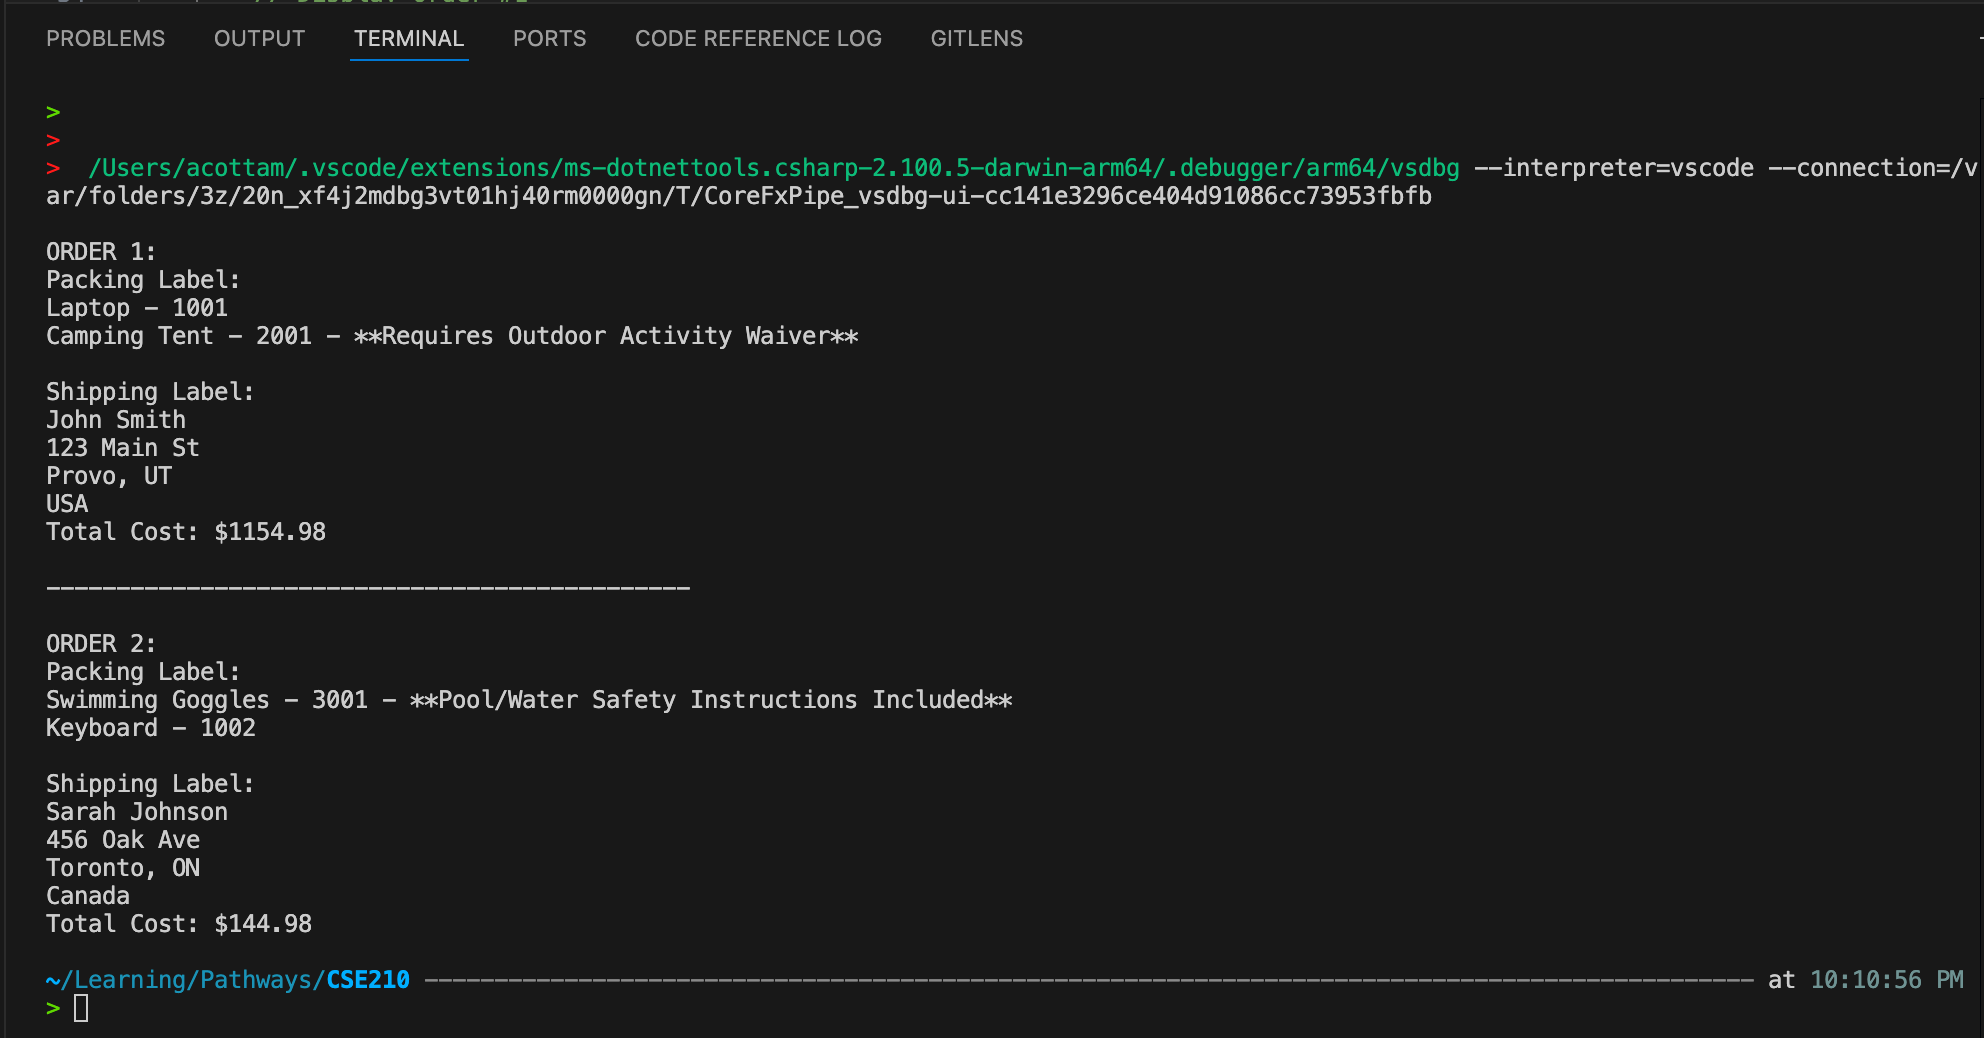
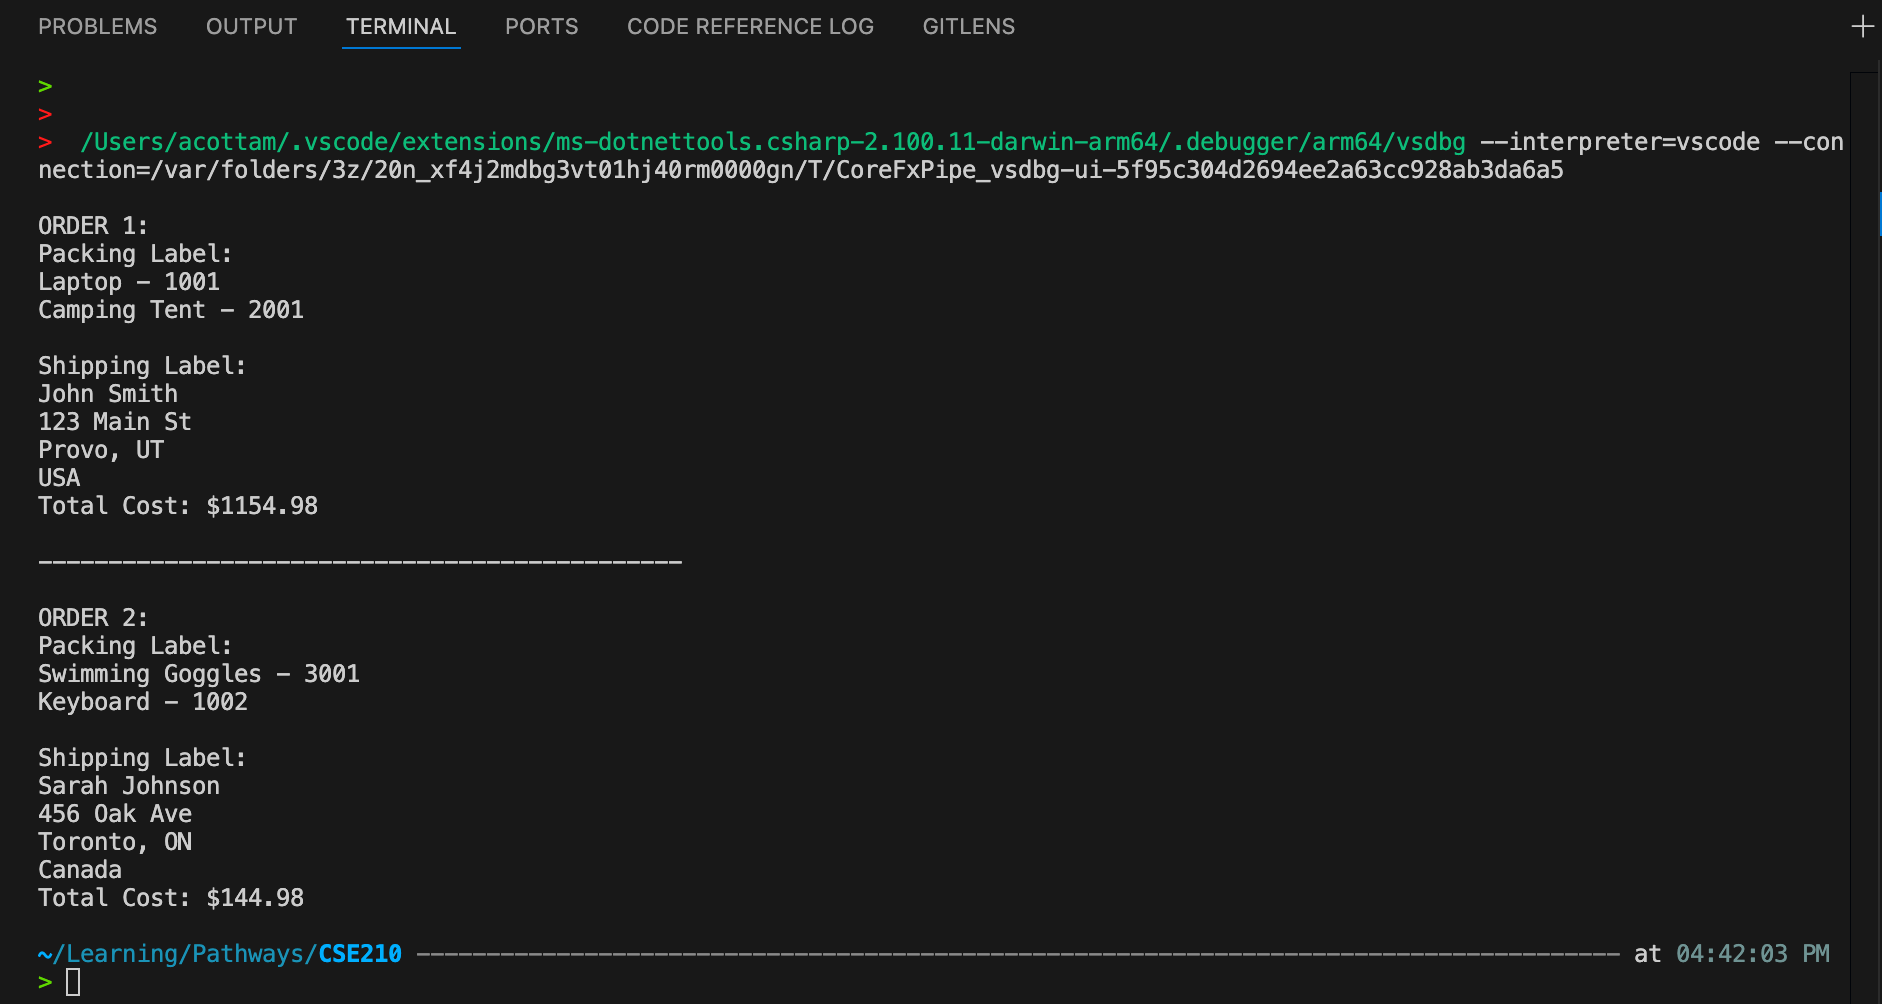
Programming Updates

diff --git a/week04/OnlineOrdering/Program.cs b/week04/OnlineOrdering/Program.cs
@@ -15,8 +15,8 @@ class Program
 
         // Create Products
         Product laptop = new Product("Laptop", 999.99, 1001);
-        OutdoorProduct tent = new OutdoorProduct("Camping Tent", 149.99, 2001);
-        SwimmingProduct goggles = new SwimmingProduct("Swimming Goggles", 29.99, 3001);
+        Product tent = new Product("Camping Tent", 149.99, 2001);
+        Product goggles = new Product("Swimming Goggles", 29.99, 3001);
 
         // Create Order #1 (USA)
         Order order1 = new Order(customer1);

diff --git a/week04/OnlineOrdering/DESIGN.md b/week04/OnlineOrdering/DESIGN.md
@@ -5,19 +5,17 @@
 ### Current Classes (Complete)
 The current implementation includes all necessary classes for the requirements:
 
-1. **Product** - Base class for all products
-2. **OutdoorProduct** - Specialized product with safety warnings
-3. **SwimmingProduct** - Specialized product with safety instructions
-4. **Address** - Customer and shipping address management
-5. **Customer** - Customer information container
-6. **Order** - Order management and cost calculation
+1. **Product** - Class for all products
+2. **Address** - Customer and shipping address management
+3. **Customer** - Customer information container
+4. **Order** - Order management and cost calculation
 
 ### Missing Classes Assessment
 **No additional classes are needed** - the current design adequately covers all requirements with proper separation of concerns.
 
 ## Class Diagrams
 
-### Product Class Hierarchy
+### Product Class
 ```
 ┌─────────────────────────┐
 │       Product           │
@@ -30,28 +28,8 @@ The current implementation includes all necessary classes for the requirements:
 │   productId)            │
 │ + GetPrice(): double    │
 │ + GetPackingLabel():    │
-│   string (virtual)      │
+│   string                │
 └─────────────────────────┘
-           ▲
-           │
-    ┌──────┴──────┐
-    │             │
-┌───▼────────┐ ┌──▼─────────────┐
-│OutdoorProd │ │ SwimmingProduct│
-├────────────┤ ├────────────────┤
-│(inherits   │ │ (inherits all  │
-│all from    │ │ from Product)  │
-│Product)    │ ├────────────────┤
-├────────────┤ │+ SwimmingProd  │
-│+ OutdoorPr │ │  (name, price, │
-│  (name,    │ │  productId)    │
-│  price,    │ │+ GetPackingLab │
-│  productId)│ │  el(): string  │
-│+ GetPacking│ │  (override)    │
-│  Label():  │ └────────────────┘
-│  string    │
-│  (override)│
-└────────────┘
 ```
 
 ### Address Class
@@ -112,8 +90,7 @@ Order ──────► Customer ──────► Address
   │
   │ (contains list)
   ▼
-Product ◄──── OutdoorProduct
-        ◄──── SwimmingProduct
+Product
 ```
 
 ## Program Flow Chart
@@ -140,7 +117,6 @@ Add Products to Orders
 For Each Order:
   ├─ Generate Packing Label
   │  └─ Call GetPackingLabel() on each product
-  │     └─ Use polymorphism for special labels
   │
   ├─ Generate Shipping Label
   │  └─ Get customer name and address
@@ -168,28 +144,18 @@ END
    - `order.CalculateTotalCost()` → calls `product.GetPrice()` for each product
    - Uses `customer.GetAddress().IsInUSA()` for shipping cost
 
-### Polymorphism in Action:
-```
-Product.GetPackingLabel() (base)
-    ↓
-OutdoorProduct.GetPackingLabel() (override) → adds waiver warning
-SwimmingProduct.GetPackingLabel() (override) → adds safety instructions
-```
-
 ## Key Design Principles Applied
 
-1. **Inheritance**: Product hierarchy with specialized behavior
-2. **Polymorphism**: Virtual method overriding for different product labels
-3. **Encapsulation**: Private fields with controlled access through methods
-4. **Single Responsibility**: Each class has one clear purpose
-5. **Composition**: Order contains Customer, Customer contains Address
+1. **Encapsulation**: Private fields with controlled access through methods
+2. **Single Responsibility**: Each class has one clear purpose
+3. **Composition**: Order contains Customer, Customer contains Address
 
 ## Data Flow Summary
 
 ```
 User Input → Products Created → Added to Order → 
 Cost Calculated ← Address Checked ← Customer Retrieved ← 
-Labels Generated ← Polymorphic Methods Called ← Products Iterated
+Labels Generated ← Products Iterated
 ```
 
 This design provides a clean, maintainable structure that can easily be extended with new product types or additional functionality.
